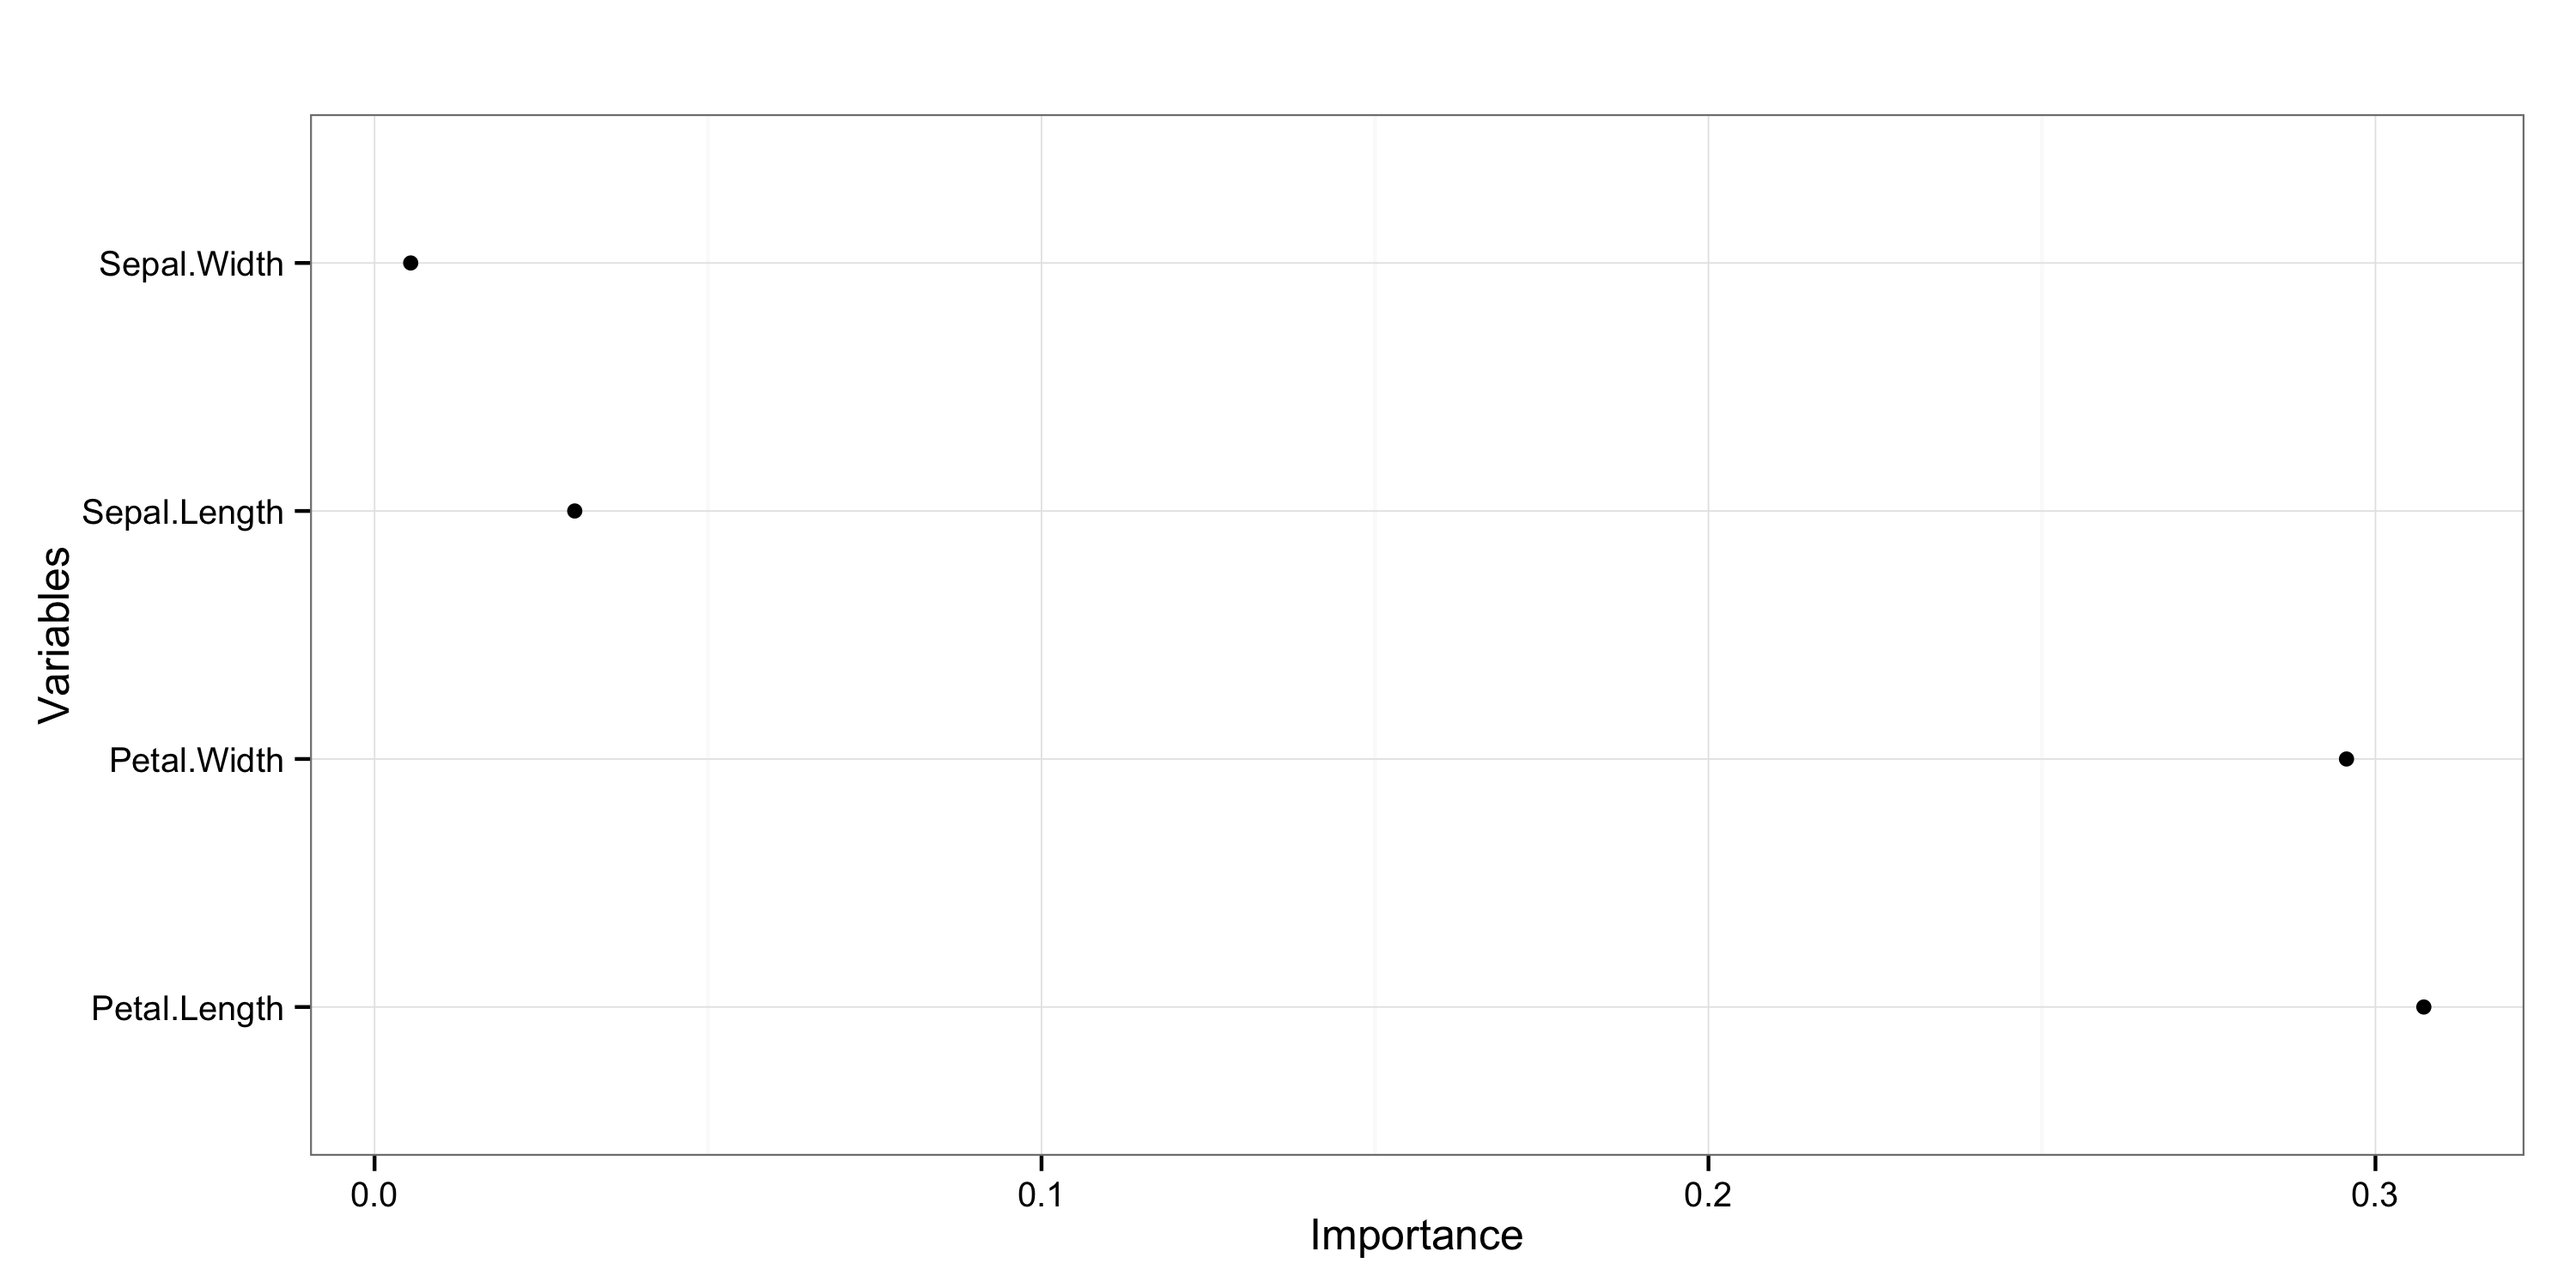
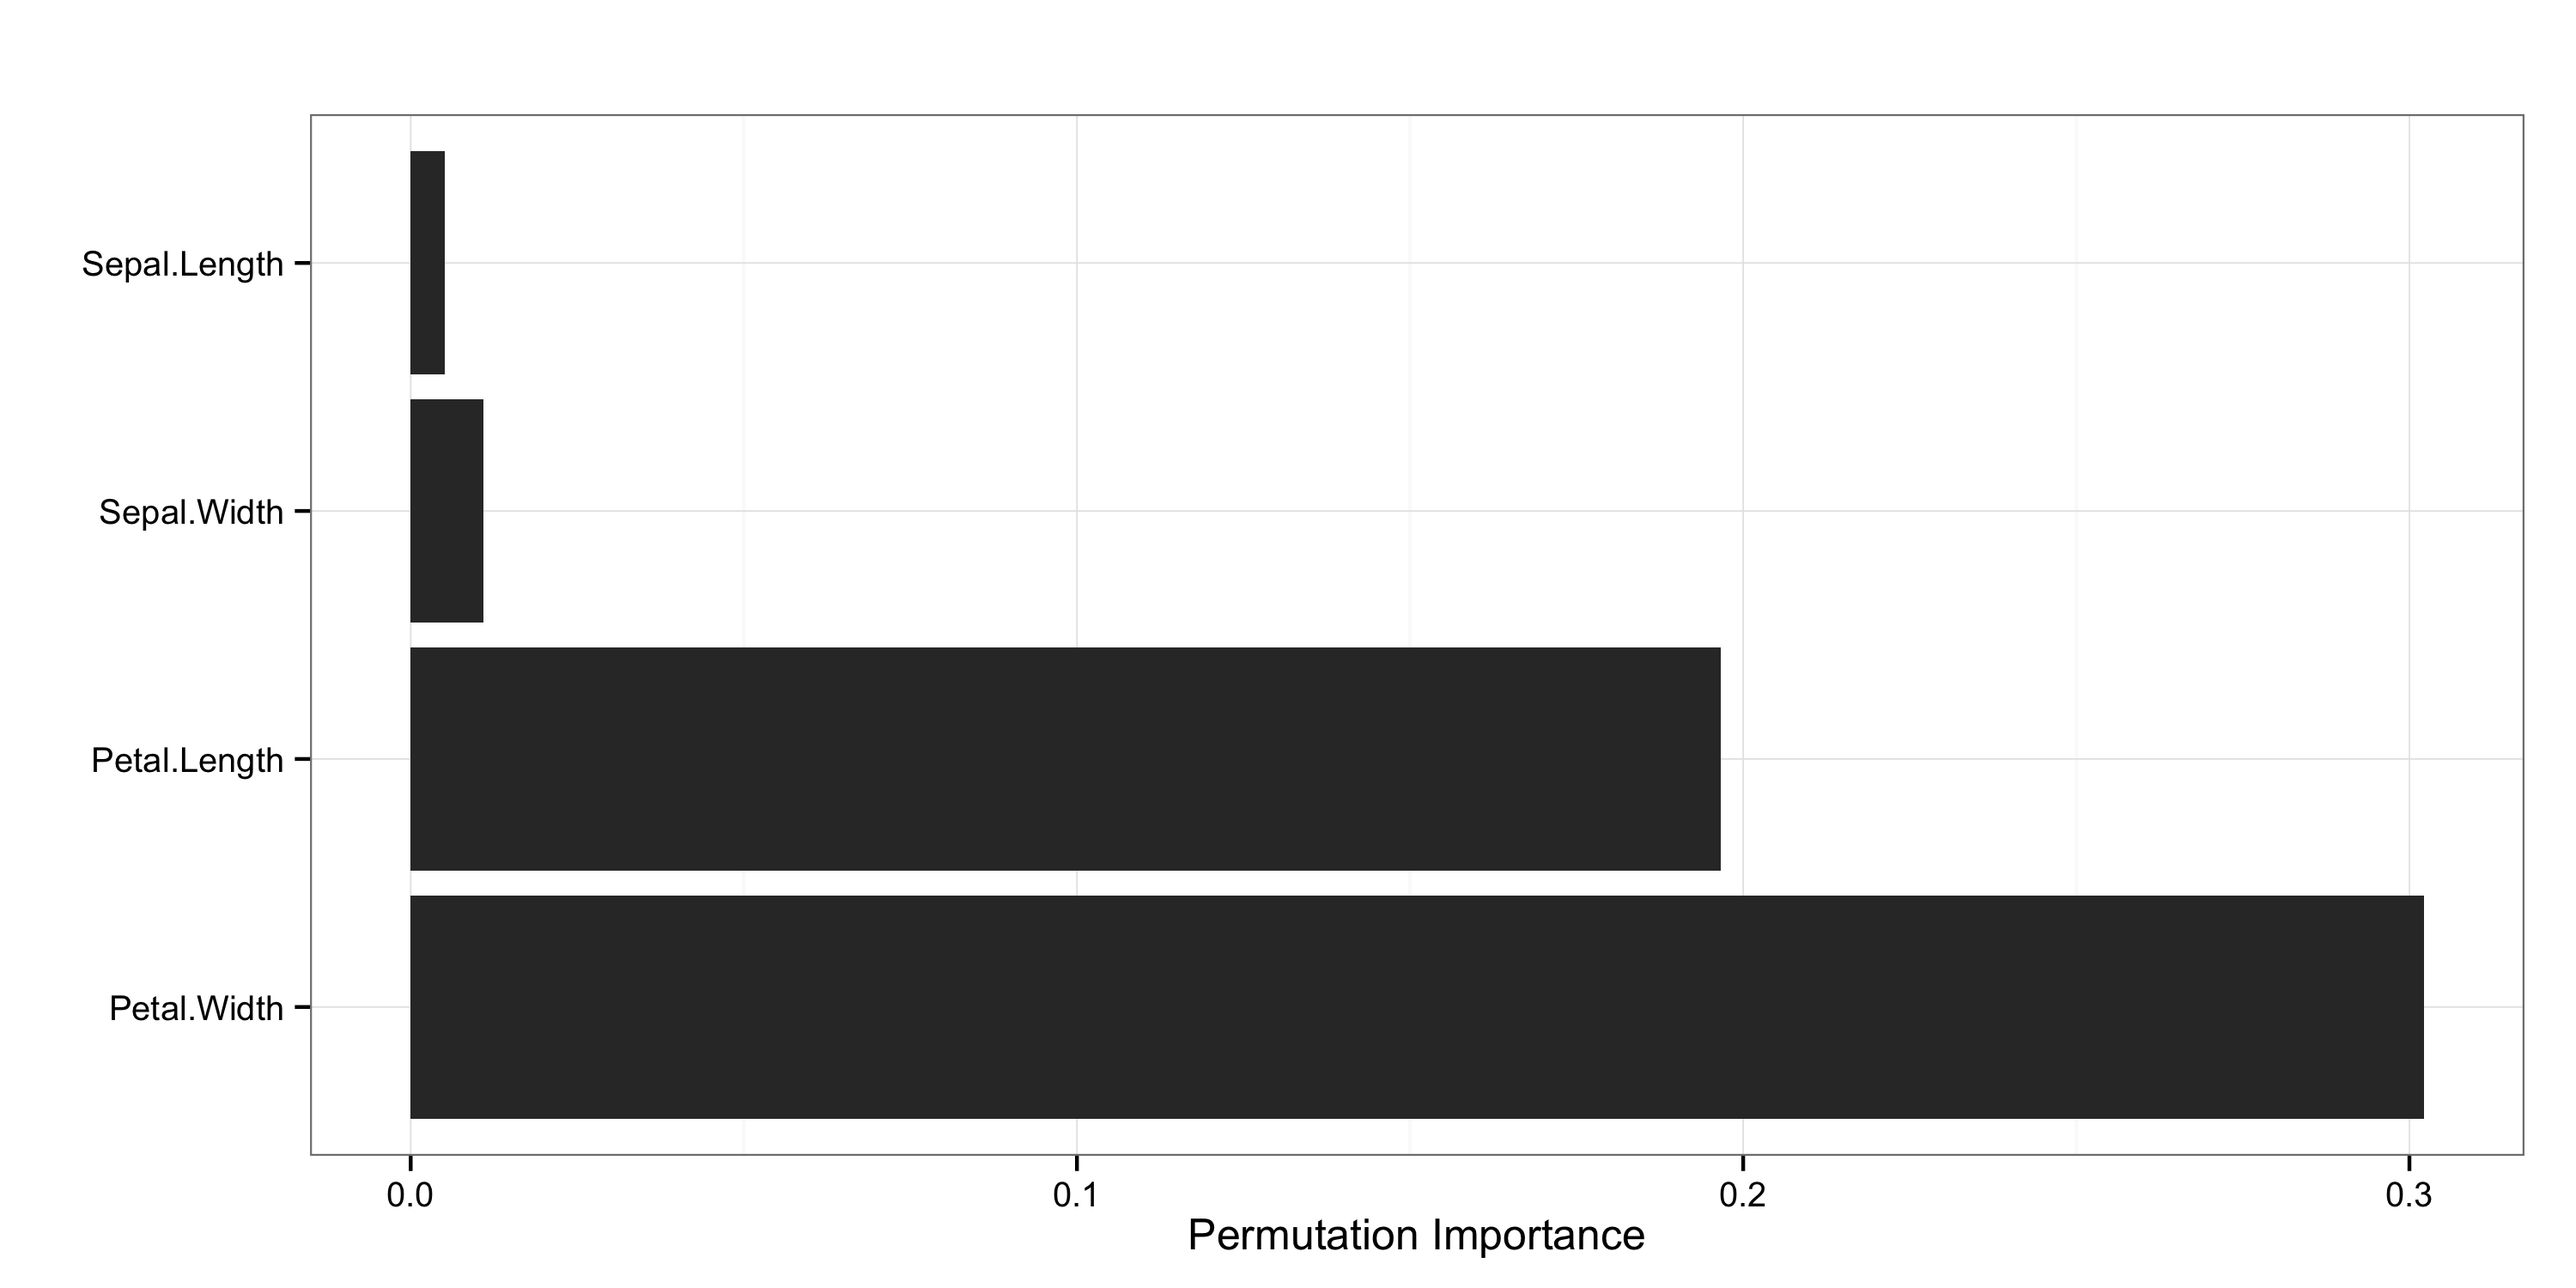
new importance plotting function
- density estimates for residuals under permutation (local)
 - class importance plotting (local)
 - aggregate importance plotting
 - interactions in any of the above cases

diff --git a/README.md b/README.md
@@ -23,7 +23,7 @@ Pull requests, bug reports, feature requests, etc. are welcome!
 	+ [Survival](#survival)
 	+ [Multivariate](#multivariate)
  - [Variable Importance](#variable_importance)
- - [Interaction Detection](#interaction_detection)
+	+ [Interaction Importance](#interaction_importance)
  - [Variance Estimation](#variance_estimation)
  - [Proximity Matrix Visualization](#proximity)
 
@@ -161,40 +161,52 @@ Multivariate two-way interaction plots not yet implemented. See [Issue #19](http
 ## <a name="variable_importance">Variable Importance</a>
 
 ```{r}
-fit <- randomForest(Species ~ ., iris, importance = TRUE)
-imp <- variable_importance(fit, type = "accuracy", class_levels = TRUE)
-plot_imp(imp)
-ggsave("examples/iris_imp_class_point.png", width = 10, height = 5)
-```
-![](examples/iris_imp_class_point.png)
-
-```{r}
+fit <- randomForest(Species ~ ., iris)
+imp <- variable_importance(fit, var = colnames(iris)[-5], type = "aggregate", data = iris)
 plot_imp(imp, geom = "bar")
-ggsave("examples/iris_imp_class_bar.png", width = 10, height = 5)
-```
-![](examples/iris_imp_class_bar.png)
-
-```{r}
-plot_imp(imp, geom = "bar", facet = TRUE)
-ggsave("examples/iris_imp_class_bar_facet.png", width = 10, height = 5)
-```
-![](examples/iris_imp_class_bar_facet.png)
-
-```{r}
-imp <- variable_importance(fit, type = "accuracy", class_levels = FALSE)
-plot_imp(imp)
 ggsave("examples/iris_imp.png", width = 10, height = 5)
 ```
 ![](examples/iris_imp.png)
 
-## <a name="interaction_detection">Interaction Detection</a>
+```{r}
+imp <- variable_importance(fit, var = colnames(iris)[-5], type = "local", data = iris)
+plot_imp(imp, geom = "bar")
+ggsave("examples/iris_imp_class.png", width = 10, height = 5)
+```
+![](examples/iris_imp_class.png)
 
 ```{r}
-int <- interaction_importance(fit, var = c("Petal.Width", "Petal.Length"), nperm = 10, data = iris)
-plot_int(int)
+fit <- randomForest(Fertility ~ ., swiss)
+imp <- variable_importance(fit, var = colnames(swiss)[-1], type = "aggregate", data = swiss)
+plot_imp(imp)
+ggsave("examples/swiss_imp.png", width = 10, height = 5)
+```
+![](examples/swiss_imp.png)
+
+```{r}
+imp <- variable_importance(fit, var = colnames(swiss)[-1], type = "local", data = swiss)
+plot_imp(imp, xlab = "Fertility")
+ggsave("examples/swiss_imp_local.png", width = 10, height = 5)
+```
+![](examples/swiss_imp_local.png)
+
+### <a name="interaction_importance">Interaction Importance</a>
+
+```{r}
+int <- variable_importance(fit, var = c("Education", "Catholic"), type = "aggregate", interaction = TRUE,
+                           data = swiss)
+plot_imp(int, geom = "bar")
 ggsave("examples/iris_int_imp.png", width = 10, height = 5)
 ```
 ![](examples/iris_int_imp.png)
+
+```{r}
+int <- variable_importance(fit, var = c("Education", "Catholic"), type = "local", interaction = TRUE,
+                           data = swiss)
+plot_imp(int, xlab = "Fertility")
+ggsave("examples/iris_int_imp_local.png", width = 7, height = 7)
+```
+![](examples/iris_int_imp_local.png)
 
 ## <a name="variance_estimation">Variance Estimation</a>
 
